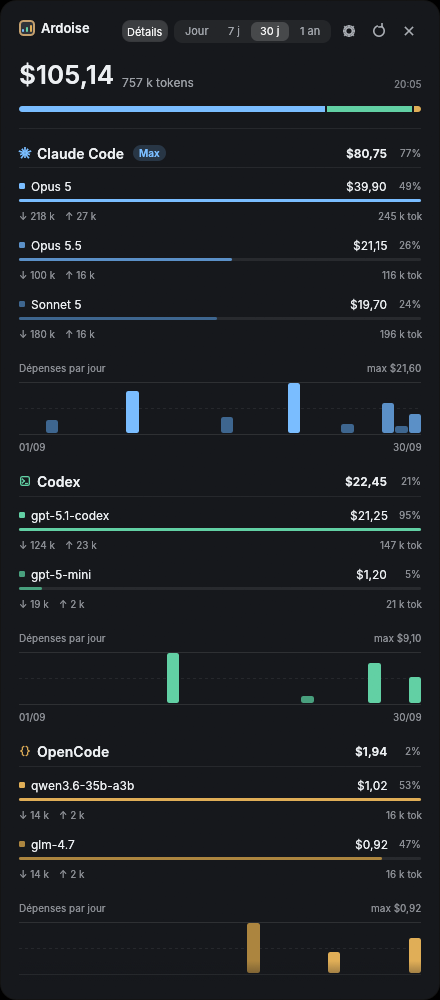
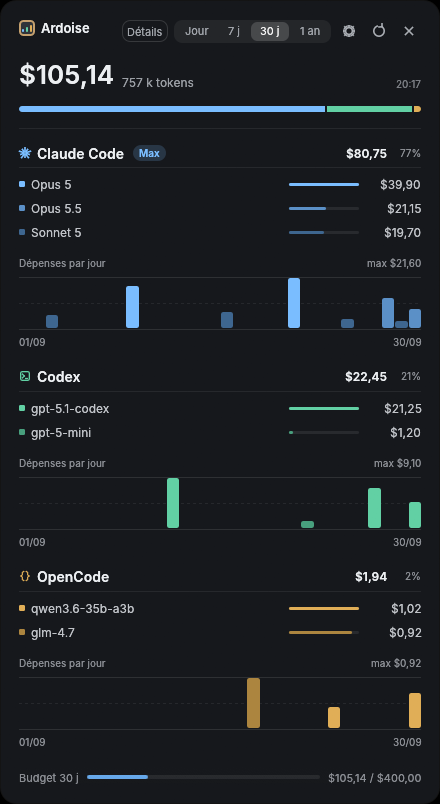
docs: captures avec et sans détails, plateformes macOS et Windows

diff --git a/examples/screenshot.rs b/examples/screenshot.rs
@@ -1,5 +1,6 @@
 //! Lance Ardoise avec des données factices, pour produire la capture d'écran du README.
 //! `cargo run --release --example screenshot`
+//! `ARDOISE_DEMO_DETAILS=0 cargo run --release --example screenshot` : sans le détail par modèle.
 
 use ardoise::app::{App, Config, WIDTH};
 use ardoise::domain::period::Period;
@@ -74,8 +75,9 @@ fn opencode_sample() -> Vec<Entry> {
 }
 
 fn main() -> eframe::Result {
+    let details = std::env::var("ARDOISE_DEMO_DETAILS").map(|v| v != "0").unwrap_or(true);
     let settings_path = std::env::temp_dir().join("ardoise-screenshot-settings.json");
-    let settings = Settings { period: Period::Month, details: true, budget: Some(400.0), ..Settings::default() };
+    let settings = Settings { period: Period::Month, details, budget: Some(400.0), ..Settings::default() };
     settings.save(&settings_path).expect("écriture des réglages de démonstration");
 
     let config = Config {

diff --git a/README.md b/README.md
@@ -2,13 +2,16 @@
 
 [![CI](https://github.com/NoxFr/ardoise/actions/workflows/ci.yml/badge.svg)](https://github.com/NoxFr/ardoise/actions/workflows/ci.yml)
 ![Rust](https://img.shields.io/badge/rust-2021-orange?logo=rust)
-![Linux](https://img.shields.io/badge/plateforme-Linux-blue?logo=linux&logoColor=white)
+![Plateformes](https://img.shields.io/badge/plateforme-Linux%20%C2%B7%20macOS%20%C2%B7%20Windows-blue)
 ![Licence](https://img.shields.io/badge/licence-MIT%20%2F%20Apache--2.0-green)
 
 Petit widget de bureau pour suivre ce que coûtent vos agents de code : Claude Code, Codex
 et OpenCode. Tout est lu en local, rien ne part sur le réseau.
 
-<p align="center"><img src="assets/screenshot.png" width="360" alt="Ardoise, période 30 jours, détails activés, trois agents"></p>
+<p align="center">
+  <img src="assets/screenshot.png" width="360" alt="Ardoise, période 30 jours, trois agents">
+  <img src="assets/screenshot-details.png" width="360" alt="Ardoise, détails activés : tokens par modèle">
+</p>
 
 ## Ce qu'il lit
 
